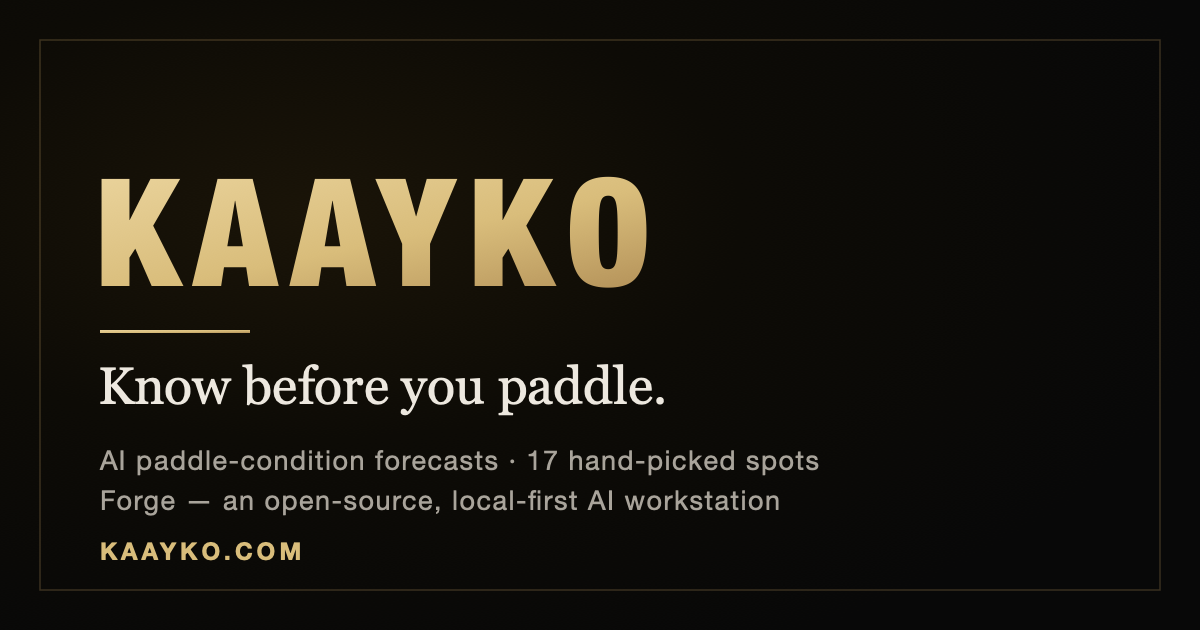
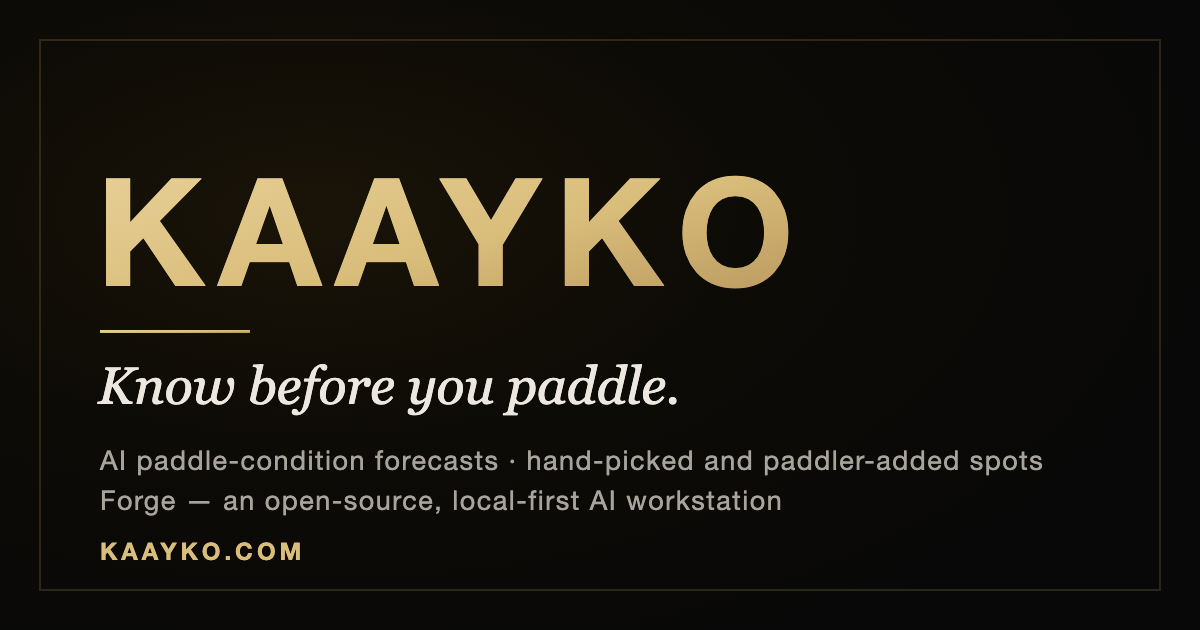
No page states how many spots there are
'17 hand-picked spots' was in titles, descriptions, structured data, search
copy and the share image, on a site whose list shows 24 (17 hand-picked plus
7 paddler-added). True as a subset, and it read as the site not knowing its
own count. A number in static HTML goes stale with every approved spot, so
the copy now says what the spots are, not how many; counts a visitor sees
come from the API. scripts/check-spot-count.js fails if any of ten files
states a count. The share image is rebuilt from its SVG and its ?v bumped.

diff --git a/scripts/check-spot-count.js b/scripts/check-spot-count.js
@@ -1,75 +1,42 @@
 #!/usr/bin/env node
 /**
- * The spot count is written into meta descriptions, Open Graph tags and
- * schema.org FAQ answers across five files. It said 17 for long enough that
- * the real number reached 21 — including inside a structured-data answer
- * search engines quote verbatim.
+ * No page states how many spots there are.
  *
- * Static HTML cannot read the API, so the number stays hardcoded. This makes
- * it drift loudly instead of silently: it fails when the files disagree with
- * each other, and warns when they disagree with production.
+ * A count written into static HTML goes stale the day a spot is added, and it
+ * has, three times: "17" while there were 21, then "22 hand-picked" for 17
+ * curated + 7 paddler-added, then (16 Nov 2026) "17 hand-picked spots" in
+ * titles, descriptions, structured data and the share image on a site whose
+ * list shows 24 — which the owner read, correctly, as the site not knowing how
+ * many spots it has. Splitting the number into "hand-picked" and "the rest"
+ * was true and still read as wrong.
  *
- * "Hand-picked" means CURATED: spots without communitySubmission, each with its
- * own written page. It used to be compared with every live spot, so each
- * approved community lake made the curated claim "wrong" and the pages ended up
- * saying "22 hand-picked" for 17 curated + 7 paddler-added (21 Oct 2026). The
- * total grows with every approval, so no page states it.
+ * So the rule is the opposite of the old one: this fails when ANY of these
+ * files claims a number of spots. Counts a visitor sees come from the API at
+ * the moment they look (the list and the grid), never from copy.
  */
 const fs = require('fs');
 const path = require('path');
 
 const ROOT = path.join(__dirname, '..', 'src');
 const FILES = [
-  'index.html', 'paddlingout.html', 'paddlingout/search.html', 'assets/kaayko-og.svg',
+  'index.html', 'about.html', 'paddlingout.html', 'paddlingout/list.html', 'paddlingout/search.html',
+  'paddlingout/scouts.html', 'paddlingout/methodology.html', 'paddlingout/forecast.html',
+  'paddlingout/settings.html', 'assets/kaayko-og.svg',
 ];
-// Case-INSENSITIVE on purpose. It was /hand-picked/g, so the two title-cased
-// claims ("21 Hand-Picked Spots", in <title> and og:title) were invisible to
-// this check — which is exactly how the page came to say 17 in its title and
-// 21 in its description at the same time, and pass.
-const RE = /(\d+)\s+hand-picked/gi;
+const RE = /\b(\d+)\s+(hand-?picked|curated|paddling destinations|(?:paddle |paddling )?spots\b|lakes,? rivers)/gi;
 
-const found = new Map();
+const bad = [];
 for (const rel of FILES) {
   const file = path.join(ROOT, rel);
   if (!fs.existsSync(file)) continue;
-  const text = fs.readFileSync(file, 'utf8');
-  for (const m of text.matchAll(RE)) {
-    if (!found.has(m[1])) found.set(m[1], []);
-    found.get(m[1]).push(rel);
-  }
+  fs.readFileSync(file, 'utf8').split('\n').forEach((line, i) => {
+    for (const m of line.matchAll(RE)) bad.push(`  src/${rel}:${i + 1}  "${m[0]}"`);
+  });
 }
 
-if (!found.size) {
-  console.log('Spot count check: no "<n> hand-picked" claims found.');
-  process.exit(0);
-}
-
-if (found.size > 1) {
-  console.error('Spot count check FAILED — the site contradicts itself:');
-  for (const [n, files] of found) console.error(`  ${n}: ${[...new Set(files)].join(', ')}`);
+if (bad.length) {
+  console.error('Spot count check FAILED — a page states a number of spots. Say what they are, not how many:');
+  console.error(bad.join('\n'));
   process.exit(1);
 }
-
-const claimed = [...found.keys()][0];
-const places = [...new Set([...found.values()].flat())].length;
-
-(async () => {
-  try {
-    const res = await fetch('https://api-vwcc5j4qda-uc.a.run.app/paddlingOut', {
-      signal: AbortSignal.timeout(12000),
-    });
-    const body = await res.json();
-    const rows = Array.isArray(body) ? body : (body.data || body.spots || []);
-    if (!rows.length) throw new Error('empty spot list');
-    const live = rows.filter((s) => s.communitySubmission !== true).length;
-    if (String(live) !== claimed) {
-      console.warn(`Spot count WARNING: pages say ${claimed} hand-picked, production has ${live} curated spots (${rows.length} in all).`);
-      console.warn(`  Update all ${places} places: sed -i '' 's/${claimed} hand-picked/${live} hand-picked/g' \\`);
-      console.warn(`    ${FILES.map((f) => 'src/' + f).join(' ')}`);
-      process.exit(0);           // a warning, not a build break — the API may be down
-    }
-    console.log(`Spot count check passed — ${claimed} hand-picked in ${places} places, ${live} curated live (${rows.length} in all).`);
-  } catch (err) {
-    console.log(`Spot count check: ${claimed} used consistently in ${places} places (live count unavailable: ${err.message}).`);
-  }
-})();
+console.log(`Spot count check passed — no hard-coded spot count in ${FILES.length} files.`);

diff --git a/src/paddlingout.html b/src/paddlingout.html
@@ -16,8 +16,8 @@
   <meta http-equiv="X-UA-Compatible" content="IE=edge">
 
   <!-- Primary Meta Tags -->
-  <title>Kayak & Paddle Conditions for 17 Hand-Picked Spots | Kaayko Paddling Out</title>
-  <meta name="description" content="Free AI-powered paddle condition scores for 17 hand-picked lakes, rivers and reservoirs, plus spots paddlers add. Real-time wind speed, water temperature, UV index, and 3-day hourly forecasts. Know before you go.">
+  <title>Kayak & Paddle Conditions for Hand-Picked Spots | Kaayko Paddling Out</title>
+  <meta name="description" content="Free AI-powered paddle condition scores for hand-picked lakes, rivers and reservoirs, plus spots paddlers add. Real-time wind speed, water temperature, UV index, and 3-day hourly forecasts. Know before you go.">
   <meta name="author" content="Kaayko">
   <meta name="robots" content="index, follow, max-snippet:-1, max-image-preview:large, max-video-preview:-1">
   <link rel="canonical" href="https://kaayko.com/paddlingout">
@@ -25,7 +25,7 @@
   <!-- Open Graph -->
   <meta property="og:type" content="website">
   <meta property="og:url" content="https://kaayko.com/paddlingout">
-  <meta property="og:title" content="Kayak & Paddle Conditions for 17 Hand-Picked Spots | Kaayko">
+  <meta property="og:title" content="Kayak & Paddle Conditions for Hand-Picked Spots | Kaayko">
   <meta property="og:description" content="Real-time AI paddle scores for kayaking, canoeing, and paddleboarding. Wind, water temp, UV — one number. Know before you go.">
   <meta property="og:image" content="https://kaayko.com/assets/paddlingout-og.png">
   <meta property="og:image:width" content="1200">
@@ -40,7 +40,7 @@
   <meta name="twitter:creator" content="@kaayko">
   <meta name="twitter:url" content="https://kaayko.com/paddlingout">
   <meta name="twitter:title" content="Paddling Out — Real-Time Kayak & Paddle Conditions">
-  <meta name="twitter:description" content="AI-powered paddle safety ratings for 17 hand-picked spots and lakes paddlers add. Wind, water temp, UV — one score. Know before you paddle.">
+  <meta name="twitter:description" content="AI-powered paddle safety ratings for hand-picked spots and lakes paddlers add. Wind, water temp, UV — one score. Know before you paddle.">
   <meta name="twitter:image" content="https://kaayko.com/assets/paddlingout-og.png">
   <meta name="twitter:image:alt" content="Kaayko Paddling Out live lake conditions">
 
@@ -56,7 +56,7 @@
       "url": "https://kaayko.com/paddlingout",
       "applicationCategory": "SportsApplication",
       "operatingSystem": "Web",
-      "description": "Free paddle conditions for 17 hand-picked lakes, rivers and reservoirs, plus spots paddlers add: a 1–5 Paddle Score from wind, gusts, air temperature, UV, cloud cover, rain and visibility at the lake, a 3-day hourly outlook, and sourced fees, permits and put-in details. No score at night, on frozen lakes or on closed water.",
+      "description": "Free paddle conditions for hand-picked lakes, rivers and reservoirs, plus spots paddlers add: a 1–5 Paddle Score from wind, gusts, air temperature, UV, cloud cover, rain and visibility at the lake, a 3-day hourly outlook, and sourced fees, permits and put-in details. No score at night, on frozen lakes or on closed water.",
       "featureList": [
         "Real-time paddle score (1–5)",
         "Wind speed and direction",
@@ -65,7 +65,7 @@
         "Precipitation probability",
         "3-day hourly heatmap forecast",
         "Lake safety alerts",
-        "17 hand-picked paddling destinations, plus spots paddlers add",
+        "Hand-picked paddling destinations, plus spots paddlers add",
         "Know before you go: fees, permits, put-in, motor boats"
       ],
       "offers": {
@@ -277,7 +277,7 @@
     <section class="container minimal-list" id="cardsContainer">
       <!-- Minimal-shaped skeletons (chamfered 4:5 portrait) match the real tiles, so the
            first paint has no shape/curve/column flash. Cleared when live cards arrive.
-           About one per live spot (24 on 21 Oct 2026: 17 hand-picked + 7 paddler-added): with 8,
+           About one per live spot (the count grows with every approved spot): with 8,
            the cards pushed the About section down four rows on desktop, a 0.78 layout shift
            (browser-check, 3 Oct 2026). A couple short or long is a small shift, not that. -->
       <div class="pcard-skeleton" aria-hidden="true"></div>

diff --git a/src/paddlingout/list.html b/src/paddlingout/list.html
@@ -20,7 +20,7 @@
 
   <!-- Primary Meta Tags -->
   <title>Paddling Out, list | Kaayko</title>
-  <meta name="description" content="Free AI-powered paddle condition scores for 17 hand-picked lakes, rivers and reservoirs, plus spots paddlers add. Real-time wind speed, water temperature, UV index, and 3-day hourly forecasts. Know before you go.">
+  <meta name="description" content="Free AI-powered paddle condition scores for hand-picked lakes, rivers and reservoirs, plus spots paddlers add. Real-time wind speed, water temperature, UV index, and 3-day hourly forecasts. Know before you go.">
   <meta name="author" content="Kaayko">
   <meta name="robots" content="noindex, follow">
   <link rel="canonical" href="https://kaayko.com/paddlingout">
@@ -28,7 +28,7 @@
   <!-- Open Graph -->
   <meta property="og:type" content="website">
   <meta property="og:url" content="https://kaayko.com/paddlingout">
-  <meta property="og:title" content="Kayak & Paddle Conditions for 17 Hand-Picked Spots | Kaayko">
+  <meta property="og:title" content="Kayak & Paddle Conditions for Hand-Picked Spots | Kaayko">
   <meta property="og:description" content="Real-time AI paddle scores for kayaking, canoeing, and paddleboarding. Wind, water temp, UV — one number. Know before you go.">
   <meta property="og:image" content="https://kaayko.com/assets/paddlingout-og.png">
   <meta property="og:image:width" content="1200">
@@ -43,7 +43,7 @@
   <meta name="twitter:creator" content="@kaayko">
   <meta name="twitter:url" content="https://kaayko.com/paddlingout">
   <meta name="twitter:title" content="Paddling Out — Real-Time Kayak & Paddle Conditions">
-  <meta name="twitter:description" content="AI-powered paddle safety ratings for 17 hand-picked spots and lakes paddlers add. Wind, water temp, UV — one score. Know before you paddle.">
+  <meta name="twitter:description" content="AI-powered paddle safety ratings for hand-picked spots and lakes paddlers add. Wind, water temp, UV — one score. Know before you paddle.">
   <meta name="twitter:image" content="https://kaayko.com/assets/paddlingout-og.png">
   <meta name="twitter:image:alt" content="Kaayko Paddling Out live lake conditions">
 

diff --git a/src/paddlingout/search.html b/src/paddlingout/search.html
@@ -14,7 +14,7 @@
 
   <!-- Primary Meta Tags -->
   <title>Find Kayak & Paddle Spots Near You | Kaayko Paddling Out</title>
-  <meta name="description" content="Search any lake, river or reservoir by city, state or zip code and get a live AI paddle condition score before you head out. 17 hand-picked spots are written up in detail.">
+  <meta name="description" content="Search any lake, river or reservoir by city, state or zip code and get a live AI paddle condition score before you head out. Hand-picked spots are written up in detail.">
   <meta name="author" content="Kaayko">
   <meta name="robots" content="index, follow, max-snippet:-1, max-image-preview:large, max-video-preview:-1">
   <link rel="canonical" href="https://kaayko.com/paddlingout/search">
@@ -47,7 +47,7 @@
       "@type": "WebPage",
       "name": "Find Kayak & Paddle Spots | Kaayko Paddling Out",
       "url": "https://kaayko.com/paddlingout/search",
-      "description": "Search any lake, river or reservoir by location and get a live AI paddle condition score. 17 hand-picked spots are written up in detail.",
+      "description": "Search any lake, river or reservoir by location and get a live AI paddle condition score. Hand-picked spots are written up in detail.",
       "isPartOf": {
         "@type": "WebApplication",
         "name": "Kaayko Paddling Out",
@@ -215,7 +215,7 @@
           applied on top.
         </p>
         <p>
-          Coverage is not the same as curation. The 17 hand-picked spots are written up in detail,
+          Coverage is not the same as curation. The hand-picked spots are written up in detail,
           with notes on what drives the score at each one and what the model cannot see there. Paddlers
           add more, and a person checks each one before it goes on the map. Everywhere else returns a score
           from weather data alone.

diff --git a/src/index.html b/src/index.html
@@ -19,7 +19,7 @@
 <meta property="og:url" content="https://kaayko.com/">
 <meta property="og:title" content="Kaayko — Paddle forecasts, art printed to order, smart QR links">
 <meta property="og:description" content="Know if the water is worth it before you drive. Forecasts for lakes paddlers pick, stories from the water, art printed to order, QR codes you can change after printing, and alumni software for schools.">
-<meta property="og:image" content="https://kaayko.com/assets/kaayko-og.png?v=20261021">
+<meta property="og:image" content="https://kaayko.com/assets/kaayko-og.png?v=20261116">
 <meta property="og:image:width" content="1200">
 <meta property="og:image:height" content="630">
 <meta property="og:image:alt" content="Kaayko — Paddling forecasts and Forge">
@@ -30,7 +30,7 @@
 <meta name="twitter:creator" content="@kaayko">
 <meta name="twitter:title" content="Kaayko — Paddle forecasts, art printed to order, smart QR links">
 <meta name="twitter:description" content="Know if the water is worth it before you drive. Forecasts for lakes paddlers pick, stories from the water, art printed to order, QR codes you can change after printing, and alumni software for schools.">
-<meta name="twitter:image" content="https://kaayko.com/assets/kaayko-og.png?v=20261021">
+<meta name="twitter:image" content="https://kaayko.com/assets/kaayko-og.png?v=20261116">
 <meta name="twitter:image:alt" content="Kaayko paddling forecast app">
 
 <!-- Schema.org — the connected @graph that lets Google resolve "Kaayko" as one

diff --git a/src/privacy.html b/src/privacy.html
@@ -17,13 +17,13 @@
   <meta property="og:url" content="https://kaayko.com/privacy">
   <meta property="og:title" content="Privacy Policy — Kaayko">
   <meta property="og:description" content="How Kaayko collects, uses and protects your data across Paddling Out, Stories, Forge, Kortex (kaay.link) and the Store (kaay.store): what is kept, for how long, and how to have it deleted.">
-  <meta property="og:image" content="https://kaayko.com/assets/kaayko-og.png?v=20261021">
+  <meta property="og:image" content="https://kaayko.com/assets/kaayko-og.png?v=20261116">
   <meta property="og:image:width" content="1200">
   <meta property="og:image:height" content="630">
   <meta name="twitter:card" content="summary_large_image">
   <meta name="twitter:title" content="Privacy Policy — Kaayko">
   <meta name="twitter:description" content="How Kaayko collects, uses and protects your data across Paddling Out, Stories, Forge, Kortex (kaay.link) and the Store (kaay.store): what is kept, for how long, and how to have it deleted.">
-  <meta name="twitter:image" content="https://kaayko.com/assets/kaayko-og.png?v=20261021">
+  <meta name="twitter:image" content="https://kaayko.com/assets/kaayko-og.png?v=20261116">
   <script type="application/ld+json">
 {
   "@context": "https://schema.org",

diff --git a/src/paddlingout/methodology.html b/src/paddlingout/methodology.html
@@ -14,13 +14,13 @@
   <meta property="og:url" content="https://kaayko.com/paddlingout/methodology">
   <meta property="og:title" content="How the Kaayko Paddle Score Works — Data, Model &amp; Limits">
   <meta property="og:description" content="The real pipeline: WeatherAPI feeds, a gradient-boosted model, calibration, the exact penalty table, and where the score stops being reliable.">
-  <meta property="og:image" content="https://kaayko.com/assets/kaayko-og.png?v=20261021">
+  <meta property="og:image" content="https://kaayko.com/assets/kaayko-og.png?v=20261116">
   <meta property="og:site_name" content="Kaayko">
 
   <meta name="twitter:card" content="summary_large_image">
   <meta name="twitter:title" content="How the Kaayko Paddle Score Works — Data, Model &amp; Limits">
   <meta name="twitter:description" content="WeatherAPI feeds, a gradient-boosted model, calibration, the exact penalty table, and the limits we publish openly.">
-  <meta name="twitter:image" content="https://kaayko.com/assets/kaayko-og.png?v=20261021">
+  <meta name="twitter:image" content="https://kaayko.com/assets/kaayko-og.png?v=20261116">
 
   <script type="application/ld+json">
   {

diff --git a/src/forge.html b/src/forge.html
@@ -12,13 +12,13 @@
   <meta property="og:url" content="https://kaayko.com/forge">
   <meta property="og:title" content="Forge — Local-First Generative AI for Apple Silicon">
   <meta property="og:description" content="MIT-licensed generative AI that runs entirely on your own Apple Silicon machine. No cloud, no API keys, no telemetry.">
-  <meta property="og:image" content="https://kaayko.com/assets/kaayko-og.png?v=20261021">
+  <meta property="og:image" content="https://kaayko.com/assets/kaayko-og.png?v=20261116">
   <meta property="og:site_name" content="Kaayko">
 
   <meta name="twitter:card" content="summary_large_image">
   <meta name="twitter:title" content="Forge — Local-First Generative AI for Apple Silicon">
   <meta name="twitter:description" content="MIT-licensed generative AI that runs entirely on your own Apple Silicon machine. No cloud, no API keys, no telemetry.">
-  <meta name="twitter:image" content="https://kaayko.com/assets/kaayko-og.png?v=20261021">
+  <meta name="twitter:image" content="https://kaayko.com/assets/kaayko-og.png?v=20261116">
   <script type="application/ld+json">
 {
   "@context": "https://schema.org",

diff --git a/src/about.html b/src/about.html
@@ -19,13 +19,13 @@
   <meta property="og:url" content="https://kaayko.com/about">
   <meta property="og:title" content="About — Kaayko">
   <meta property="og:description" content="Paddling Out, Stories, Forge, Kortex and School — what each one is, shown with live data and real renders.">
-  <meta property="og:image" content="https://kaayko.com/assets/kaayko-og.png?v=20261021">
+  <meta property="og:image" content="https://kaayko.com/assets/kaayko-og.png?v=20261116">
   <meta property="og:site_name" content="Kaayko">
 
   <meta name="twitter:card" content="summary_large_image">
   <meta name="twitter:title" content="About — Kaayko">
   <meta name="twitter:description" content="Paddling Out, Stories, Forge, Kortex and School — what each one is, shown with live data and real renders.">
-  <meta name="twitter:image" content="https://kaayko.com/assets/kaayko-og.png?v=20261021">
+  <meta name="twitter:image" content="https://kaayko.com/assets/kaayko-og.png?v=20261116">
 
   <script type="application/ld+json">
 {
